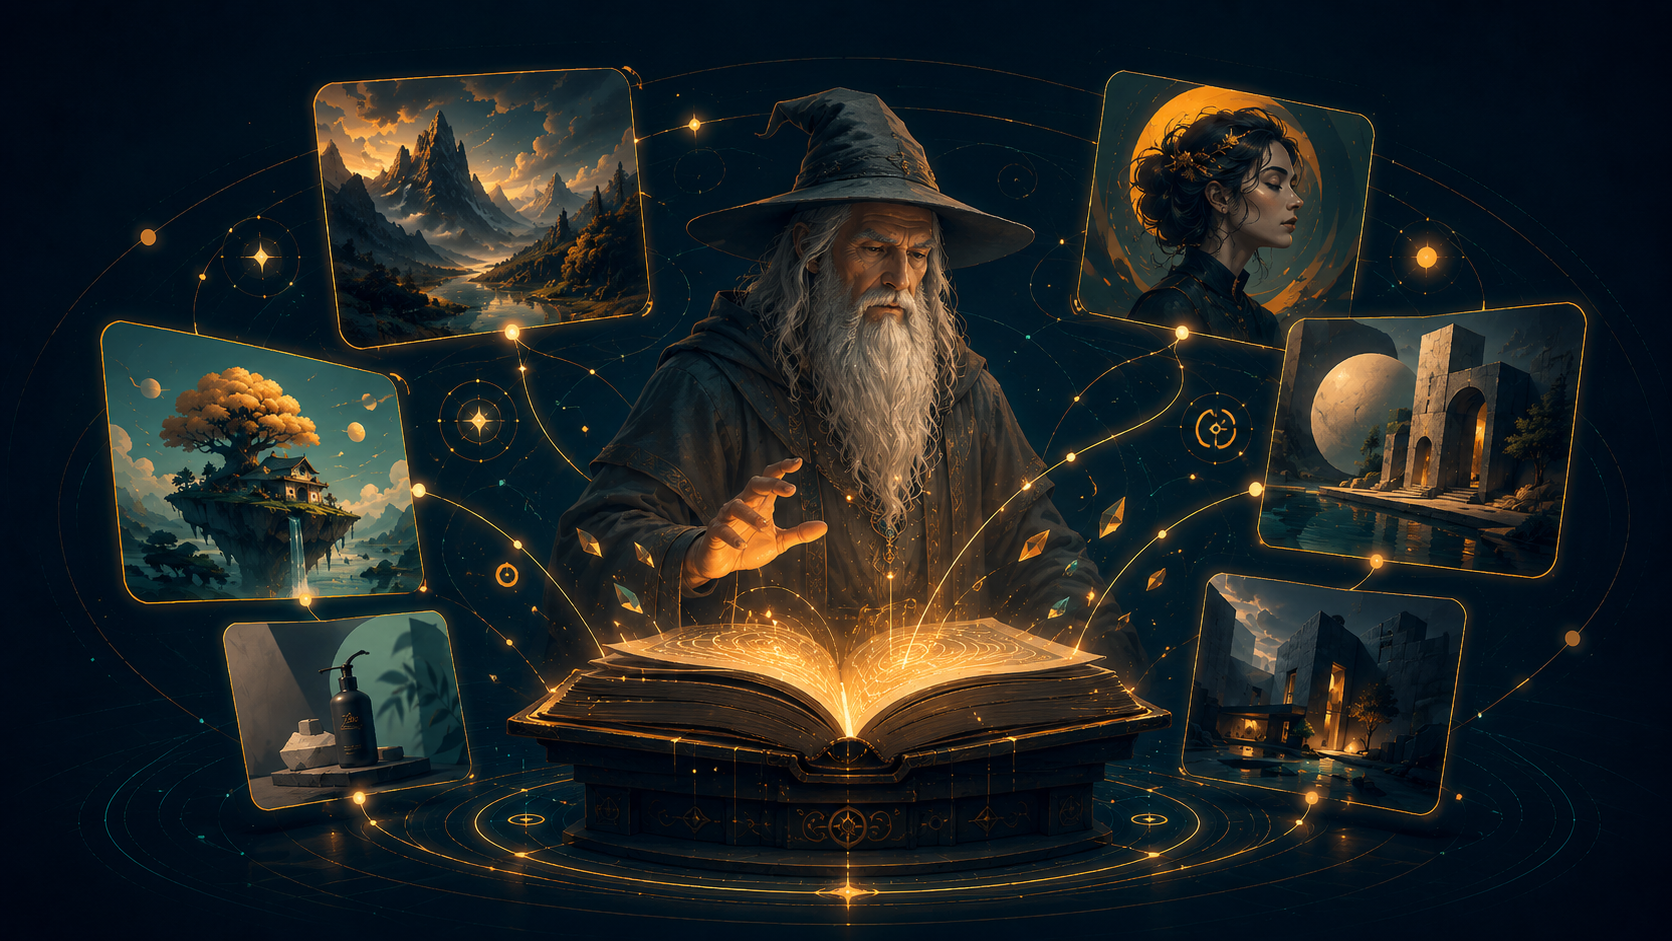
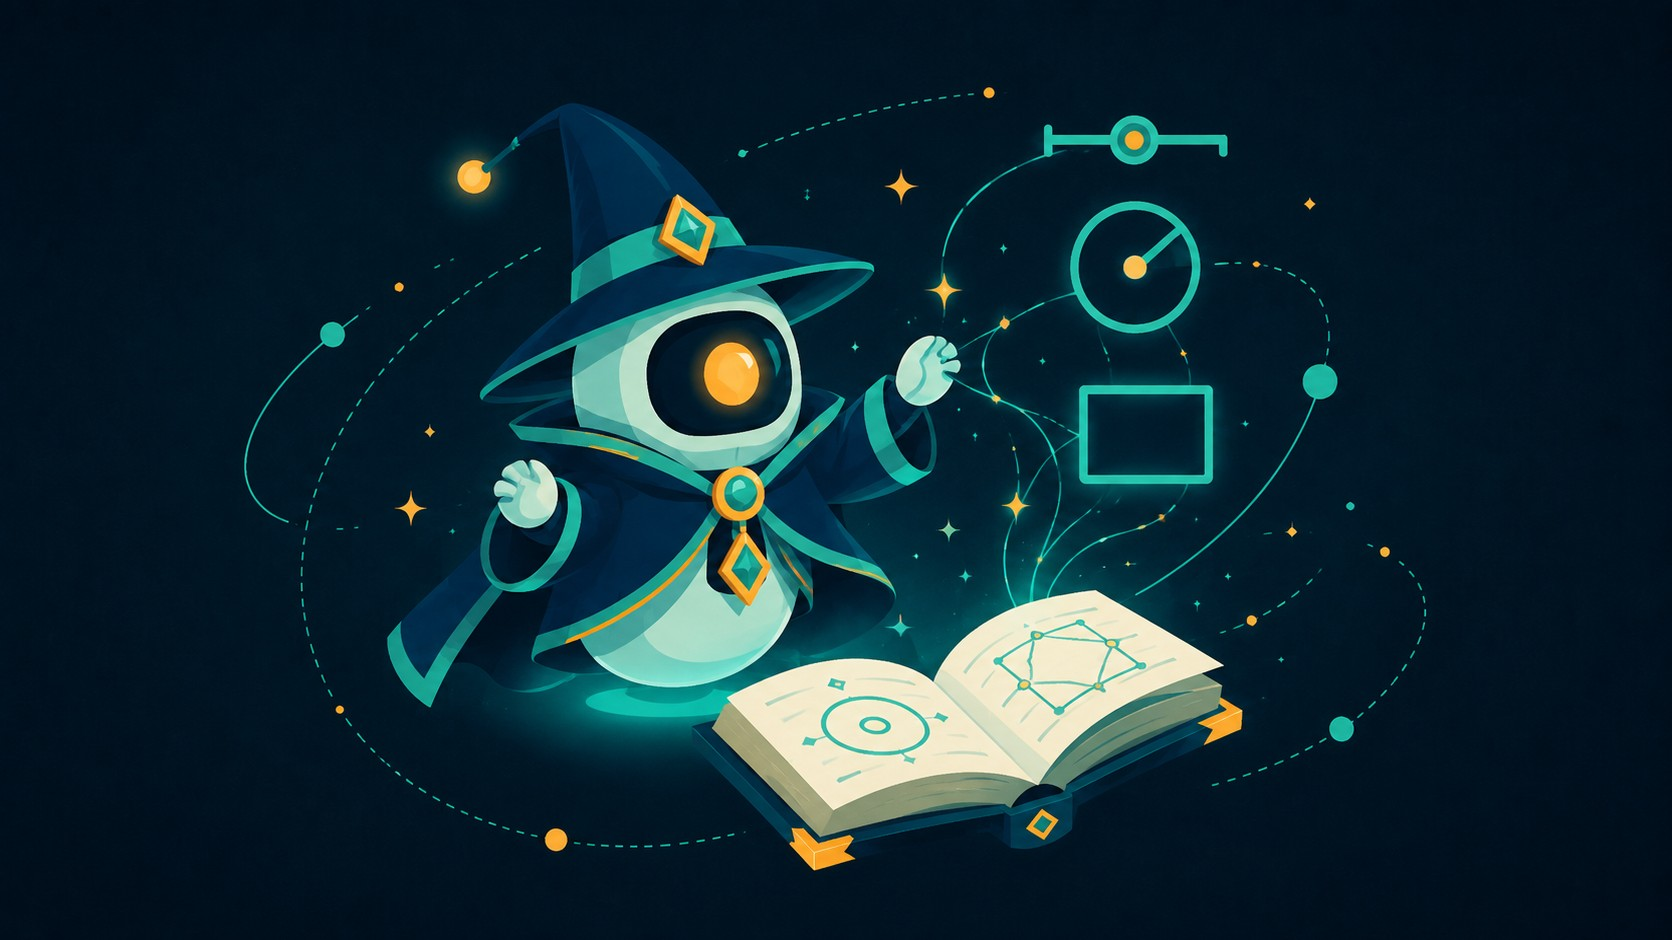
Add files via upload

diff --git a/docs/guides/the-complete-reference-guide-to-midjourney-prompts.html b/docs/guides/the-complete-reference-guide-to-midjourney-prompts.html
@@ -90,7 +90,7 @@ article b{color:var(--text)} article a{border-bottom:1px solid rgba(255,180,84,.
   <div class="meta-row">Last reviewed July 20, 2026</div>
   <div class="page-tags"><span class="page-tag-chip">Image Generation</span><span class="page-tag-chip">Tools &amp; Workflow</span></div>
   <div class="quick-answer"><div class="label">QUICK ANSWER</div><p>A Midjourney prompt is built in order: optional reference images first, then your subject and scene description, then style and medium, then parameters like --ar and --stylize last. Parameters control technical behavior; the words before them control content.</p></div>
-  
+  <div class="img-block"><img src="/guides/21.jpg" alt="The Complete Reference Guide to Midjourney Prompts" loading="lazy"></div>
   <article>
     <p>Most Midjourney prompts fail for one of two reasons: the description is too vague to give the model anything to work with, or the parameters are fighting each other without the person realizing it.</p>
 <p>This is the reference version. Not a quick list of tips, but the actual structure, every parameter that matters, and what happens when you combine the wrong two. This covers every parameter in current active use across V7 and V8.1 — not retired flags from V1–V4 or the old --testp models, since those aren't usable with the current default.</p>